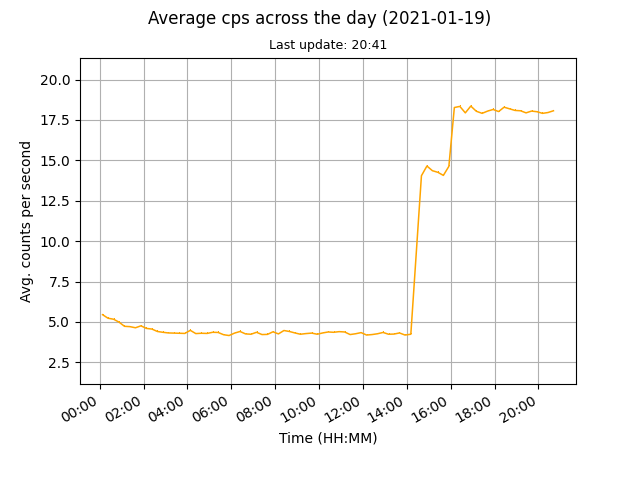
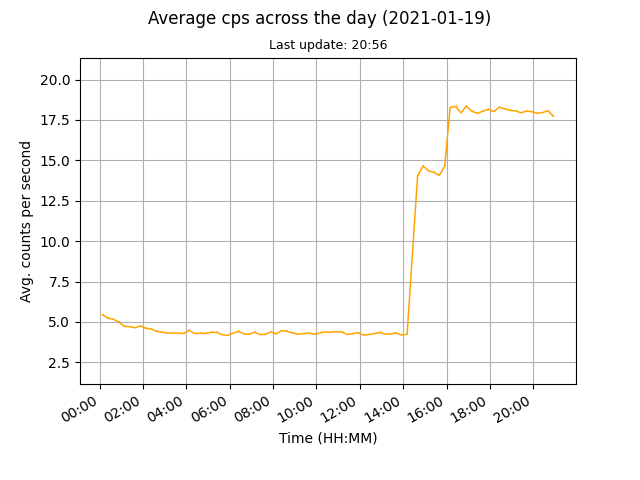
auto data update

diff --git a/docs/index.html b/docs/index.html
@@ -45,8 +45,8 @@
 	
 	<br>
 	
-	<p>Current counts per second (cps): 18.07</p>
-	<p>Last update: 2021-01-19, 20:41</p>
+	<p>Current counts per second (cps): 17.72</p>
+	<p>Last update: 2021-01-19, 20:56</p>
 
 	<p><a href="images/monthly.png"><img src="images/monthly.png" alt="Mothly avg cps data"></a><a href="images/daily.png"><img src="images/daily.png" alt="Daily avg cps data"></a></p>
 	
